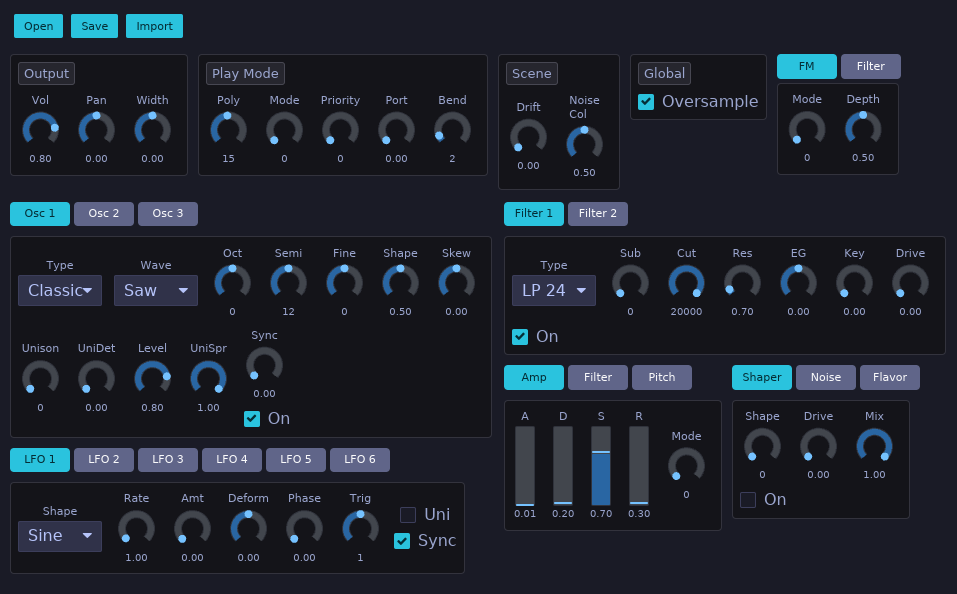
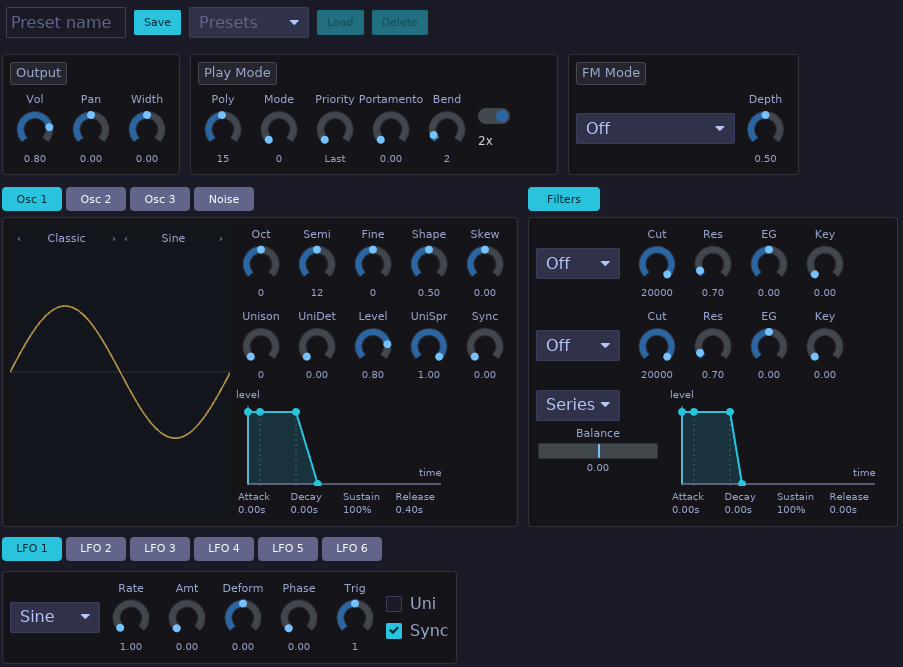
Update

Changed region(s): [[0.0, 0.0, 1.0, 0.9697], [0.7752, 0.8182, 0.8372, 0.8485]]

diff --git a/src/plugins.md b/src/plugins.md
@@ -18,8 +18,7 @@ the list and press **Load** to recall it. **Delete** removes the selected preset
 Presets are stored as JSON files (`*.mpreset`) in `~/.config/maolan/presets/<plugin>/`.
 Instrument presets capture the complete plugin state — for example a Sampler preset
 includes its zones and instrument files, and a Modeler preset includes the loaded
-NAM model and impulse response paths. The Synth additionally offers Open/Save file
-dialogs and Surge XT `.fxp` import from its own preset bar.
+NAM model and impulse response paths.
 
 ## Instruments
 
@@ -65,6 +64,17 @@ Polyphonic sample player supporting **SFZ (v1/v2)** and **SoundFont 2 (SF2.01/SF
 - **Interactive GUI:** Supports drag-and-drop file loading, bank/preset dropdown selection, real-time loading progress indicator, instant reload button for SFZ editing, and scrollable diagnostic error logging.
 - **Zone Sample Editor:** Editing a zone opens the embedded Maolan waveform editor. Select a range and use the editor's loop toggle to set the zone's loop region (the whole file when nothing is selected). Ctrl+drag a selection edge to draw the symmetric xfade region inside the selection, which sets the loop crossfade.
 
+**Parameter groups**
+
+| Group | Description |
+|-------|-------------|
+| Master | Gain, pan |
+| Pitch | Bend up, bend down |
+| Amp EG / Filter EG / EG2–EG5 | Attack, decay, sustain, release |
+| Filter / Filter 2 | Type, subtype, cutoff, resonance, EG amount, key tracking, drive, enable |
+| LFO1–LFO6 | Rate, amount, shape, enable, deform, phase, trigger, unipolar, sync mode |
+| Mod1–Mod6 | Source, target, depth |
+
 ### Synth
 
 ![Synth GUI](images/instruments/synth.png)
@@ -73,10 +83,18 @@ Plugin ID: `rs.maolan.synth`
 
 Polyphonic synthesizer inspired by Surge XT. Features three oscillators with multiple synthesis
 modes (including wavetable, FM, and physical-modeling flavors), two multimode filters with
-configurable routing, three envelopes, six LFOs, a 12-slot modulation matrix, an MSEG, a step
-sequencer, noise and waveshaper sections, and microtonal tuning support. Stereo I/O.
+configurable routing, independent oscillator envelopes and a filter envelope, six LFOs,
+a 12-slot modulation matrix, an MSEG, a step sequencer, noise and per-oscillator shaping,
+and microtonal tuning support. Stereo I/O.
 
-The Amp, Filter, and Pitch envelopes use a shaded ADSR graph. Drag the attack peak,
+Each oscillator has its own shaded ADSR graph. Select Osc 1, Osc 2, or Osc 3 to
+edit that oscillator's attack, decay, sustain, and release. Changing one oscillator's
+envelope does not change the others, and longer release tails continue after the
+other oscillators have finished. The Noise tab retains the amp envelope; the filter
+envelope remains shared. Older sessions and presets initialize all three oscillator
+envelopes from their saved amp envelope.
+
+The envelope graphs support the same editing gestures. Drag the attack peak,
 decay point, or release endpoint horizontally to change its time; drag the sustain
 point vertically to change its level. Times use logarithmic spacing and the sustain
 plateau represents the held note, not a fixed duration. Values appear below the graph.
@@ -87,20 +105,18 @@ With an LFO assignment armed, click a stage handle or its value to assign that s
 
 | Group | Description |
 |-------|-------------|
-| Osc1–Osc3 | Type, octave, semitone, fine, shape, skew, formant, level, unison, sync, sub, routing, solo/mute |
+| Osc1–Osc3 | Type, octave, semitone, fine, shape, skew, level, unison, sync, sub, routing, solo/mute; Osc 3 also has formant |
 | Filter1–Filter2 | Type, subtype, cutoff, resonance, EG amount, key tracking, drive, feedback, enable |
 | Filter | Filter routing and balance |
-| AmpEG / FilterEG / PitchEG | Attack, decay, sustain, release, mode, shapes, retrigger, tempo sync, uber release |
+| Osc1EG–Osc3EG | Independent attack, decay, sustain, and release, with per-stage LFO assignment |
+| AmpEG / FilterEG | Attack, decay, sustain, release, mode, shapes, retrigger, tempo sync, uber release |
 | LFO1–LFO6 | Rate, shape, amount, deform, trigger, sync mode/division, envelope, phase, unipolar |
-| Mod | Fixed mod depths (velocity/key/LFO to filter, mod wheel/aftertouch to filter) |
 | ModRoute1–12 | Source, target, depth, curve |
-| Noise | Type, level, color, filter, stereo, enabled |
-| Waveshaper | Shape, drive, mix, enable |
+| Noise | Type, level, unison voices and stereo spread, color, filter, stereo, enabled |
 | Flavor | Additional filter-like flavor stage |
 | Step Seq | 16 step values, loop start/end, shuffle, trigger targets |
 | MSEG | 128 nodes, 127 segment curves, loop, retrigger targets |
-| Macros | Macro1–8 modulation sources |
-| Master | Volume, pan, width, polyphony, portamento, pitch-bend range, play mode, voice priority |
+| Global | Volume, pan, width, polyphony, portamento, pitch-bend range, play mode, voice priority |
 | Tuning | Scale, root, SCL index |
 | FM / Twist / String / Alias | Oscillator-specific parameters for FM, twist, string, and alias engines |
 
@@ -272,8 +288,9 @@ Algorithmic reverb with mono or stereo I/O, 22 acoustic modes, and the full-band
 
 Decay controls the midrange decay time; BassMult scales the bass decay below
 BassFreq. HighShelf and HighFreq damp the feedback's high frequencies. Early
-controls input diffusion and Late controls echo-density buildup. Attack spreads
-the onset in time. EQ affects only the wet output. Mix at zero preserves dry audio.
+controls diffusion and early-reflection level; Late controls late-reverb level
+and feedback rotation. Attack spreads the onset in time. EQ affects only the wet
+output. Mix at zero preserves dry audio.
 
 Modes: Concert Hall, Plate, Room, Chamber, Random Space, Chorus Space, Ambience,
 Bright Hall, Sanctuary, Dirty Hall, Dirty Plate, Smooth Plate, Smooth Room,

diff --git a/src/daw.md b/src/daw.md
@@ -66,7 +66,7 @@ In the arrangement, select and drag clips to move them, or use Ctrl-drag (Option
 
 Audio clips can be opened in Maolan Edit for waveform work such as selecting a range, applying fades or gain, reversing audio, deleting material, or replacing a selection with silence. The embedded editor keeps edits associated with the session clip; use the editor's undo and redo controls to review changes.
 
-MIDI clips open in the piano roll, where notes can be created, selected, moved, resized, and edited alongside controller lanes. The piano roll supports quantizing, humanizing, and applying groove to selected notes. Audio and MIDI clips can both be launched from Live Session, while the arrangement provides precise placement and editing along the timeline.
+MIDI clips open in the piano roll, where notes can be created, selected, moved, resized, and edited alongside controller lanes. The piano roll supports quantizing, humanizing, and applying groove to selected notes. The MIDI Tools strip provides root and major/minor scale controls; **Hide out-of-scale** hides piano keys and grid rows outside the selected scale and collapses the remaining rows together. Note creation, selection, and dragging follow the visible rows. Hidden notes keep their MIDI data and still play; turn the filter off to see them again. Audio and MIDI clips can both be launched from Live Session, while the arrangement provides precise placement and editing along the timeline.
 
 Grouped clips can keep related material together when arranging or reusing it. The Clips pane avoids listing the same clip more than once when it is referenced in multiple places, so the unused pool and track lists remain easier to scan.
 
